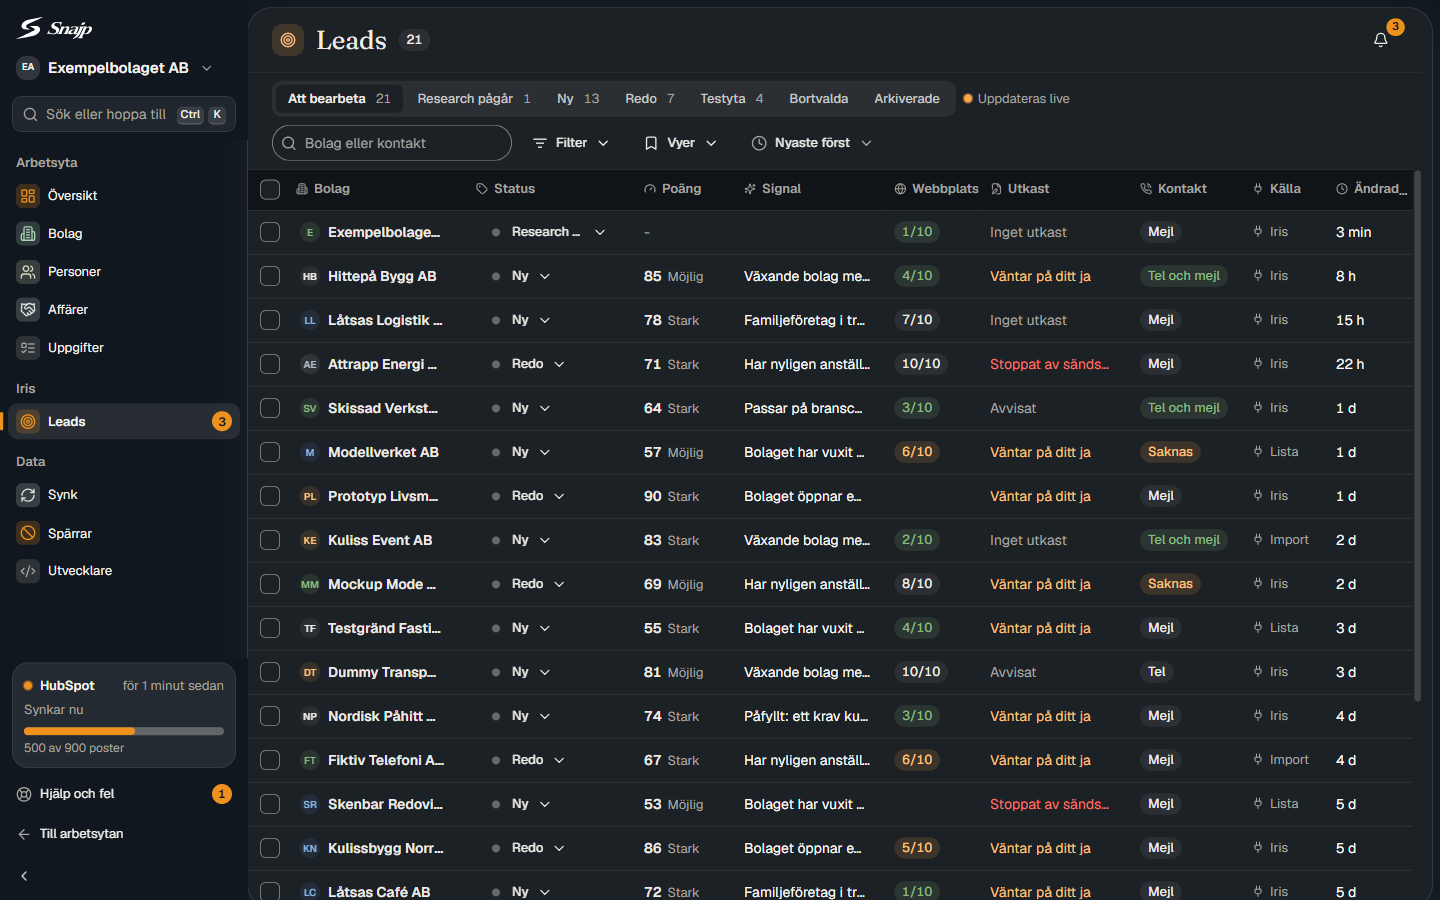
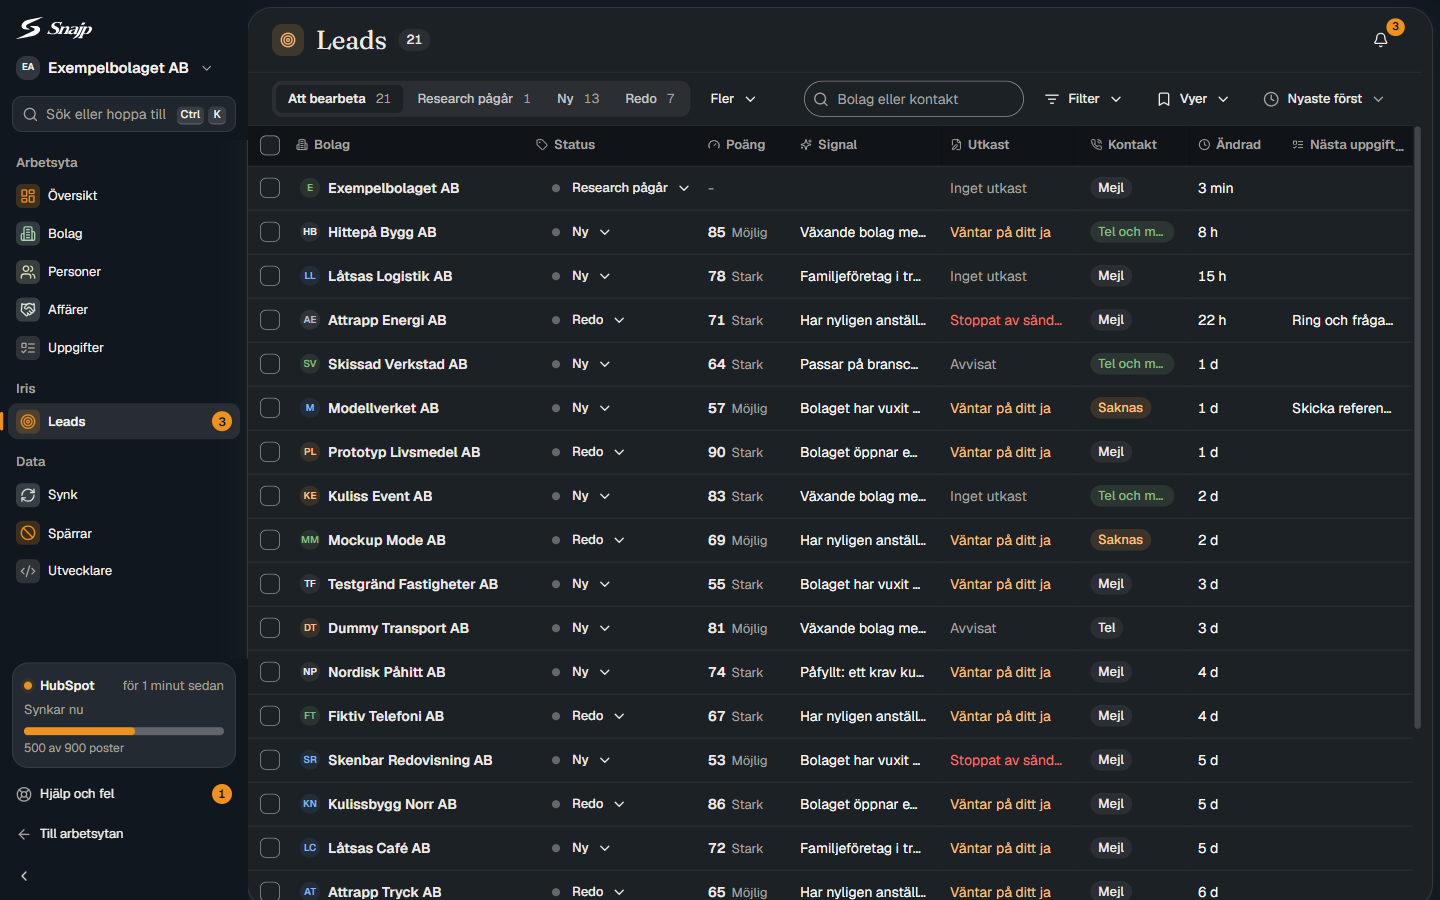
fix(crm): Leads-listan ryms i bladet, och vyraden pa en rad
Orkestratorns egen granskning av bilderna fran steg 4.2:
- Bolagens namn kapades medan tabellen rullade i sidled. Kolumnerna ar
  ombalanserade sa att namnet far plats och tabellen ryms i 1440.
- Kallan (Iris, lista, import) ar ingen kolumn i dagens tabell och ar
  borttagen har: den valjs under Filter och star i panelens flik Kalla.
- Vyraden brots till tva rader. Testyta, Bortvalda och Arkiverade ligger
  under Fler nar de inte ar valda, som i Bolag, och Uppdateras live star i
  raknefoten, dar listans lage hor hemma.

Verifierat: avgransad tsc ren, 754 invarianter grona, bilder lasta i 1440
ljust och morkt samt 390 (docs/crm/bilder/fas4/42-lista-*.png).

diff --git a/components/crm/app/iris/LeadsVy.tsx b/components/crm/app/iris/LeadsVy.tsx
@@ -17,7 +17,6 @@ import {
   ListTodo,
   MoreHorizontal,
   PhoneCall,
-  Plug,
   RefreshCw,
   SearchX,
   Send,
@@ -50,7 +49,7 @@ import { SIDSTORLEK, useSida, useSidaFor } from "@/components/leads/sidindelning
 import { pafyllnadSkal } from "@/components/leads/pafyllnad";
 import { Bekraftelse } from "@/components/crm/app/iris/Bekraftelse";
 import { LeadPanel } from "@/components/crm/app/iris/LeadPanel";
-import { Kallpiller, Kolumnrubrik, Postchip, Prick, Tabellskelett, Vyval, grannfokus, tonFor, tonklass, useSkrivratt, useSmal, utanBolagsform } from "@/components/crm/app/kit";
+import { Kolumnrubrik, Postchip, Prick, Tabellskelett, Vyval, grannfokus, tonFor, tonklass, useSkrivratt, useSmal, utanBolagsform } from "@/components/crm/app/kit";
 import { Felruta, Sida } from "@/components/crm/app/Sida";
 import { useDashboard } from "@/components/dashboard/DashboardContext";
 import { CrmFel } from "@/lib/crm/api";
@@ -888,7 +887,7 @@ export function LeadsVy({ bas = "/crm" }: Readonly<{ bas?: string }>) {
       {
         key: "company_name",
         header: <Kolumnrubrik ikon={Building2}>{text({ sv: "Bolag", en: "Company" })}</Kolumnrubrik>,
-        width: proportional(1.2, { minWidth: 180 }),
+        width: proportional(1.6, { minWidth: 210 }),
         renderCell: (p) => (
           <span className="flex min-w-0 items-center gap-2">
             <Postchip namn={p.company_name || text({ sv: "Namnlöst bolag", en: "Unnamed company" })} onClick={() => sattPost(p.id)} label={text({ sv: `Öppna ${p.company_name}`, en: `Open ${p.company_name}` })} />
@@ -899,13 +898,13 @@ export function LeadsVy({ bas = "/crm" }: Readonly<{ bas?: string }>) {
       {
         key: "status",
         header: <Kolumnrubrik ikon={Tag}>{text({ sv: "Status", en: "Status" })}</Kolumnrubrik>,
-        width: pixel(168),
+        width: pixel(172),
         renderCell: (p) => statusval(p)
       },
       {
         key: "poang",
         header: <Kolumnrubrik ikon={Gauge}>{text({ sv: "Poäng", en: "Score" })}</Kolumnrubrik>,
-        width: pixel(100),
+        width: pixel(92),
         renderCell: (p) => {
           const n = poang(p);
           if (obedomd(p) || n == null) return <span className="text-ink-muted" title={text({ sv: "Ingen poäng än", en: "No score yet" })}>-</span>;
@@ -920,7 +919,7 @@ export function LeadsVy({ bas = "/crm" }: Readonly<{ bas?: string }>) {
       {
         key: "signal",
         header: <Kolumnrubrik ikon={Sparkles}>{text({ sv: "Signal", en: "Signal" })}</Kolumnrubrik>,
-        width: proportional(1, { minWidth: 130 }),
+        width: proportional(1, { minWidth: 140 }),
         renderCell: (p) => {
           const pafyllt = p.pafylld ? pafyllnadSkal(p.pafylld_skal) : null;
           const skal = p.pafylld ? (pafyllt ? text(pafyllt) : "") : null;
@@ -937,7 +936,7 @@ export function LeadsVy({ bas = "/crm" }: Readonly<{ bas?: string }>) {
       k.push({
         key: "webb",
         header: <Kolumnrubrik ikon={Globe}>{text({ sv: "Webbplats", en: "Website" })}</Kolumnrubrik>,
-        width: pixel(96),
+        width: pixel(88),
         renderCell: (p) => {
           const m = betyg(p);
           if (m == null) return null;
@@ -955,7 +954,7 @@ export function LeadsVy({ bas = "/crm" }: Readonly<{ bas?: string }>) {
       {
         key: "utkast",
         header: <Kolumnrubrik ikon={FilePen}>{text({ sv: "Utkast", en: "Draft" })}</Kolumnrubrik>,
-        width: pixel(150),
+        width: pixel(140),
         renderCell: (p) => {
           const etikett = utkastText(p, locale, text);
           if (!etikett || !p.utkast_status) return <span className="text-ink-muted">-</span>;
@@ -972,22 +971,17 @@ export function LeadsVy({ bas = "/crm" }: Readonly<{ bas?: string }>) {
       {
         key: "kontakt",
         header: <Kolumnrubrik ikon={PhoneCall}>{text({ sv: "Kontakt", en: "Contact" })}</Kolumnrubrik>,
-        width: pixel(112),
+        width: pixel(118),
         renderCell: (p) => {
           const v = kontaktvag(p);
           return <Badge variant={v === "saknas" ? "yellow" : v === "bada" ? "green" : "neutral"} label={text(KONTAKTVAG[v])} />;
         }
       },
-      {
-        key: "kalla",
-        header: <Kolumnrubrik ikon={Plug}>{text({ sv: "Källa", en: "Source" })}</Kolumnrubrik>,
-        width: pixel(84),
-        renderCell: (p) => <Kallpiller kalla={text(LEAD_TYP_ETIKETT[leadTyp(p.origin)])} />
-      },
+      // Källan (Iris, lista, import) är ingen kolumn: den väljs under Filter och står i panelens flik Källa.
       {
         key: "senast",
         header: <Kolumnrubrik ikon={Clock}>{iUndan && vy === "arkiverade" ? text({ sv: "Arkiverad", en: "Archived" }) : text({ sv: "Ändrad", en: "Updated" })}</Kolumnrubrik>,
-        width: pixel(84),
+        width: pixel(94),
         renderCell: (p) => {
           const t = (vy === "arkiverade" ? p.arkiverad_at : null) ?? p.senaste_handelse_at ?? p.created_at;
           return t ? (
@@ -1002,7 +996,7 @@ export function LeadsVy({ bas = "/crm" }: Readonly<{ bas?: string }>) {
       k.push({
         key: "uppgift",
         header: <Kolumnrubrik ikon={ListTodo}>{text({ sv: "Nästa uppgift", en: "Next task" })}</Kolumnrubrik>,
-        width: pixel(140),
+        width: pixel(128),
         renderCell: (p) => {
           const u = nastaUppgift.get(p.id);
           return u ? (
@@ -1036,6 +1030,10 @@ export function LeadsVy({ bas = "/crm" }: Readonly<{ bas?: string }>) {
     "bortvalda",
     "arkiverade"
   ];
+  // Testytan, Bortvalda och Arkiverade ligger under Fler när de inte är valda: vyraden ryms då på en rad.
+  const SIDOVYER: Vy[] = ["testyta", "bortvalda", "arkiverade"];
+  const iRaden = vyer.filter((v) => !SIDOVYER.includes(v) || v === vy);
+  const underFler = vyer.filter((v) => SIDOVYER.includes(v) && v !== vy);
   const vyantal = (v: Vy) => {
     const n = antal[v];
     return n == null ? undefined : tal(n);
@@ -1135,6 +1133,12 @@ export function LeadsVy({ bas = "/crm" }: Readonly<{ bas?: string }>) {
 
   const fot = (
     <div className="crm-raknefot" role="status">
+      {live ? (
+        <span className="inline-flex shrink-0 items-center gap-1.5">
+          <Prick ton="ockra" pulserar />
+          <span className="crm-raknefot-etikett">{text({ sv: "Uppdateras live", en: "Updating live" })}</span>
+        </span>
+      ) : null}
       <span>
         <span className="crm-raknefot-etikett">{text({ sv: "Visar", en: "Showing" })}</span>{" "}
         <span className="crm-raknefot-tal">{urval.length ? `${tal(sidor.fran + 1)}–${tal(sidor.till)}` : "0"}</span>{" "}
@@ -1382,19 +1386,19 @@ export function LeadsVy({ bas = "/crm" }: Readonly<{ bas?: string }>) {
           />
         ) : (
           <>
-            <Vyval value={vy} onChange={setVy} label={text({ sv: "Vy", en: "View" })} val={vyer.map((v) => ({ v, namn: text(vynamn[v]), antal: vyantal(v) }))} />
-            {live ? (
-              <span className="inline-flex shrink-0 items-center gap-1.5 text-[0.8125rem] text-ink-muted">
-                <Prick ton="ockra" pulserar />
-                {text({ sv: "Uppdateras live", en: "Updating live" })}
-              </span>
+            <Vyval value={vy} onChange={setVy} label={text({ sv: "Vy", en: "View" })} val={iRaden.map((v) => ({ v, namn: text(vynamn[v]), antal: vyantal(v) }))} />
+            {underFler.length > 0 ? (
+              <DropdownMenu
+                button={{ label: text({ sv: "Fler", en: "More" }), variant: "ghost", size: "md" }}
+                items={underFler.map((v) => ({ label: vyantal(v) ? `${text(vynamn[v])}  ${vyantal(v)}` : text(vynamn[v]), onClick: () => setVy(v) }))}
+              />
             ) : null}
           </>
         )
       }
       vyradHoger={
         <div className="flex w-full flex-wrap items-center gap-2 sm:w-auto sm:flex-nowrap">
-          <div className="w-full min-w-0 sm:w-[240px] sm:flex-none">
+          <div className="w-full min-w-0 sm:w-[220px] sm:flex-none">
             <TextInput
               type="search"
               label={text({ sv: "Sök leads", en: "Search leads" })}
